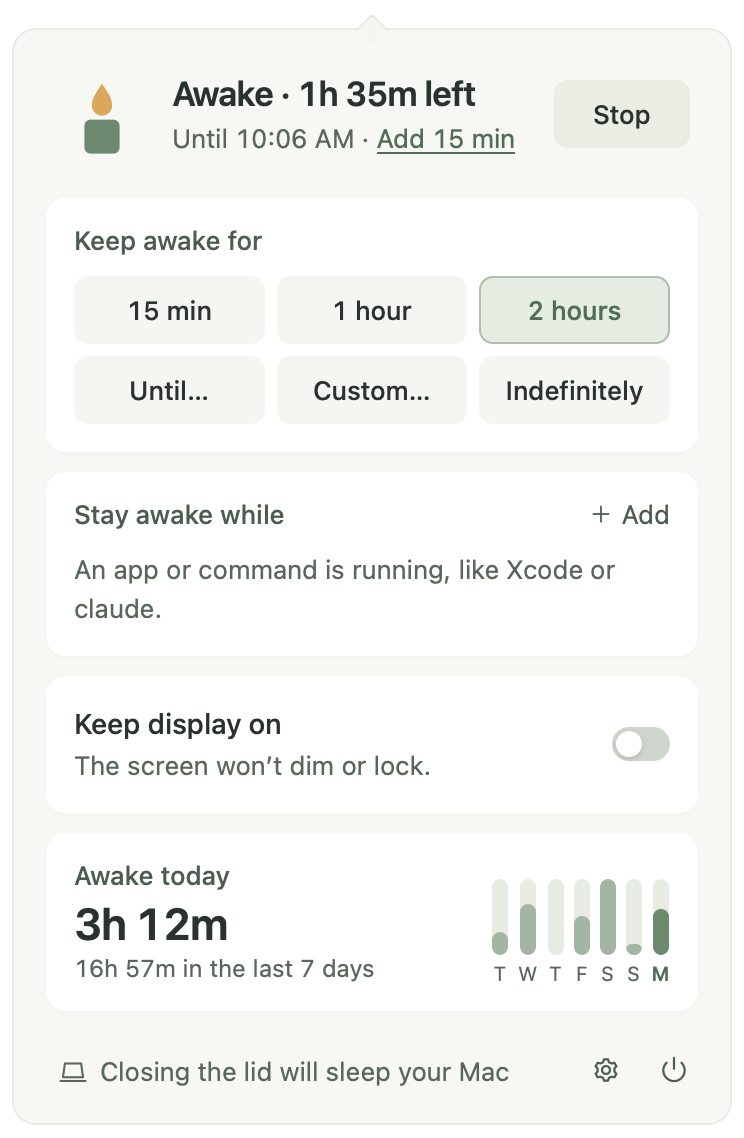
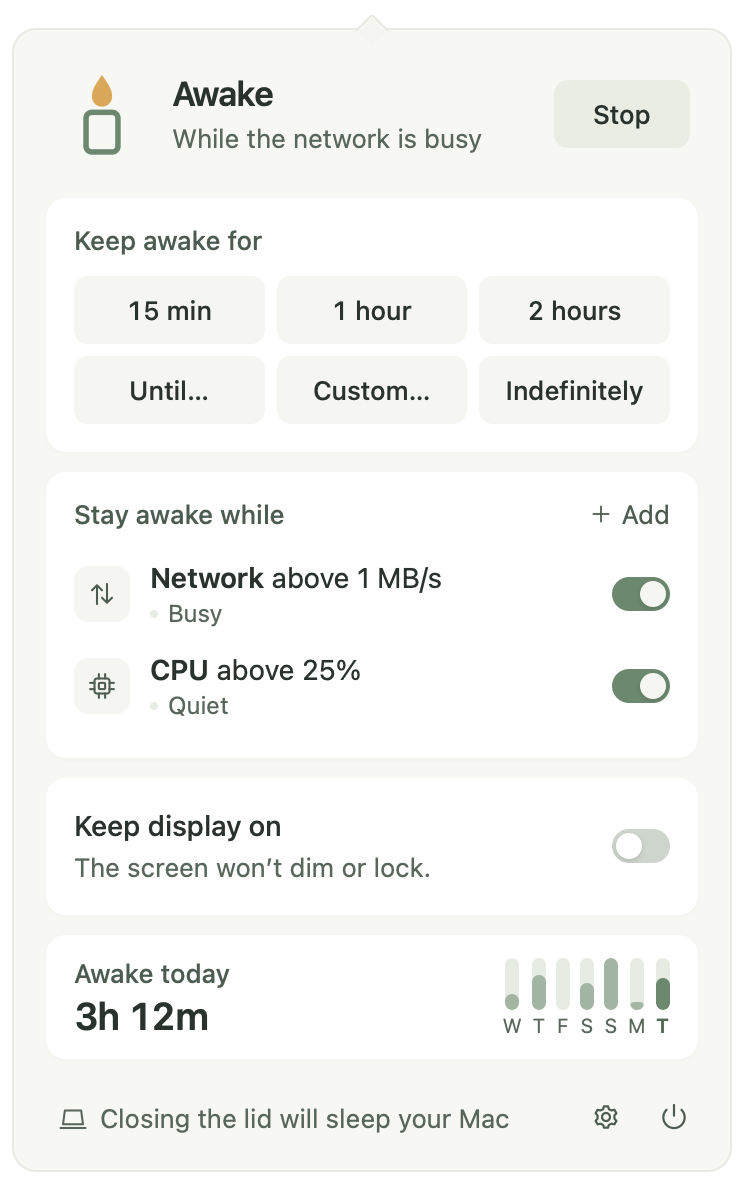
chore(release): prepare v0.5.0
Version 0.5.0, the v0.5.0 changelog and CHANGELOG row, download links
pointing at v0.5.0, and README and site heroes showing the network and
CPU triggers with the compact history card.

diff --git a/site/index.html b/site/index.html
@@ -161,7 +161,7 @@ footer a:hover { color: var(--ink); }
     <figure class="shot">
       <picture>
         <source srcset="popover-dark.png" media="(prefers-color-scheme: dark)">
-        <img src="popover-light.png" width="372" height="569" alt="Wick popover: awake for 1 hour 35 minutes, 3 hours 12 minutes awake today, with a bar for each of the last 7 days">
+        <img src="popover-light.png" width="372" height="592" alt="Wick popover: awake while the network is busy, with network and CPU triggers and 3 hours 12 minutes awake today">
       </picture>
     </figure>
   </div>

diff --git a/README.md b/README.md
@@ -13,7 +13,7 @@
 [Download](https://github.com/Abulkosim/wick/releases/latest) · [Install](#install) · [What it does](#what-it-does) · [Privacy](#privacy) · [Changelog](CHANGELOG.md) · [Contributing](CONTRIBUTING.md)
 
 <p>
-  <img src="docs/images/popover-light.png" alt="Wick awake for two hours, with 3h 12m awake today and a bar for each of the last 7 days" width="300" />
+  <img src="docs/images/popover-light.png" alt="Wick awake while the network is busy, with network and CPU triggers and 3h 12m awake today" width="300" />
   <img src="docs/images/others-dark.png" alt="Wick in dark mode listing caffeinate, Google Chrome and zoom.us as also keeping the Mac awake" width="300" />
 </p>
 
@@ -23,12 +23,12 @@
 
 ## Install
 
-Download **v0.4.0** from [GitHub Releases](https://github.com/Abulkosim/wick/releases/latest).
+Download **v0.5.0** from [GitHub Releases](https://github.com/Abulkosim/wick/releases/latest).
 
 | Platform | Download |
 | --- | --- |
-| macOS 12+ · Apple Silicon and Intel | [Universal DMG](https://github.com/Abulkosim/wick/releases/download/v0.4.0/Wick_0.4.0_universal.dmg) |
-| Windows 10/11 x64 | [Setup EXE](https://github.com/Abulkosim/wick/releases/download/v0.4.0/Wick_0.4.0_x64-setup.exe) · [MSI](https://github.com/Abulkosim/wick/releases/download/v0.4.0/Wick_0.4.0_x64_en-US.msi) |
+| macOS 12+ · Apple Silicon and Intel | [Universal DMG](https://github.com/Abulkosim/wick/releases/download/v0.5.0/Wick_0.5.0_universal.dmg) |
+| Windows 10/11 x64 | [Setup EXE](https://github.com/Abulkosim/wick/releases/download/v0.5.0/Wick_0.5.0_x64-setup.exe) · [MSI](https://github.com/Abulkosim/wick/releases/download/v0.5.0/Wick_0.5.0_x64_en-US.msi) |
 
 **Homebrew** (macOS):
 

diff --git a/changelogs/v0.5.0.md b/changelogs/v0.5.0.md
@@ -1,0 +1,7 @@
+# v0.5.0
+
+2026-10-27 · [Download](https://github.com/Abulkosim/wick/releases/tag/v0.5.0)
+
+- Stay awake while the network or CPU is busy: add **Network busy** or **CPU busy** under Stay awake while → Add → Condition, and pick how busy counts (100 KB/s, 1 MB/s or 10 MB/s; 10, 25 or 50%). Wick lets go once it's been quiet for 2 minutes.
+- The Awake today card takes one row, and the popover grows taller before it scrolls, so more triggers fit.
+- A Raycast extension starts, stops and checks Wick, including typed durations like 45 or 16:30. Its source is in the repository's `raycast/` folder; it isn't in the Raycast Store yet.

diff --git a/CHANGELOG.md b/CHANGELOG.md
@@ -2,6 +2,7 @@
 
 | Version | Date (UTC) | Changes |
 | --- | --- | --- |
+| [v0.5.0](changelogs/v0.5.0.md) | 2026-10-27 | Network and CPU triggers, compact history card, Raycast extension. |
 | [v0.4.0](changelogs/v0.4.0.md) | 2026-10-26 | History of time awake per day, Homebrew cask. |
 | [v0.3.0](changelogs/v0.3.0.md) | 2026-10-25 | Tray quick actions, Add 15 min, popover keys, sessions survive updates, lighter background work. |
 | [v0.2.0](changelogs/v0.2.0.md) | 2026-10-23 | Windows, power, display and schedule triggers, pause while locked, links and `wick status`. |
